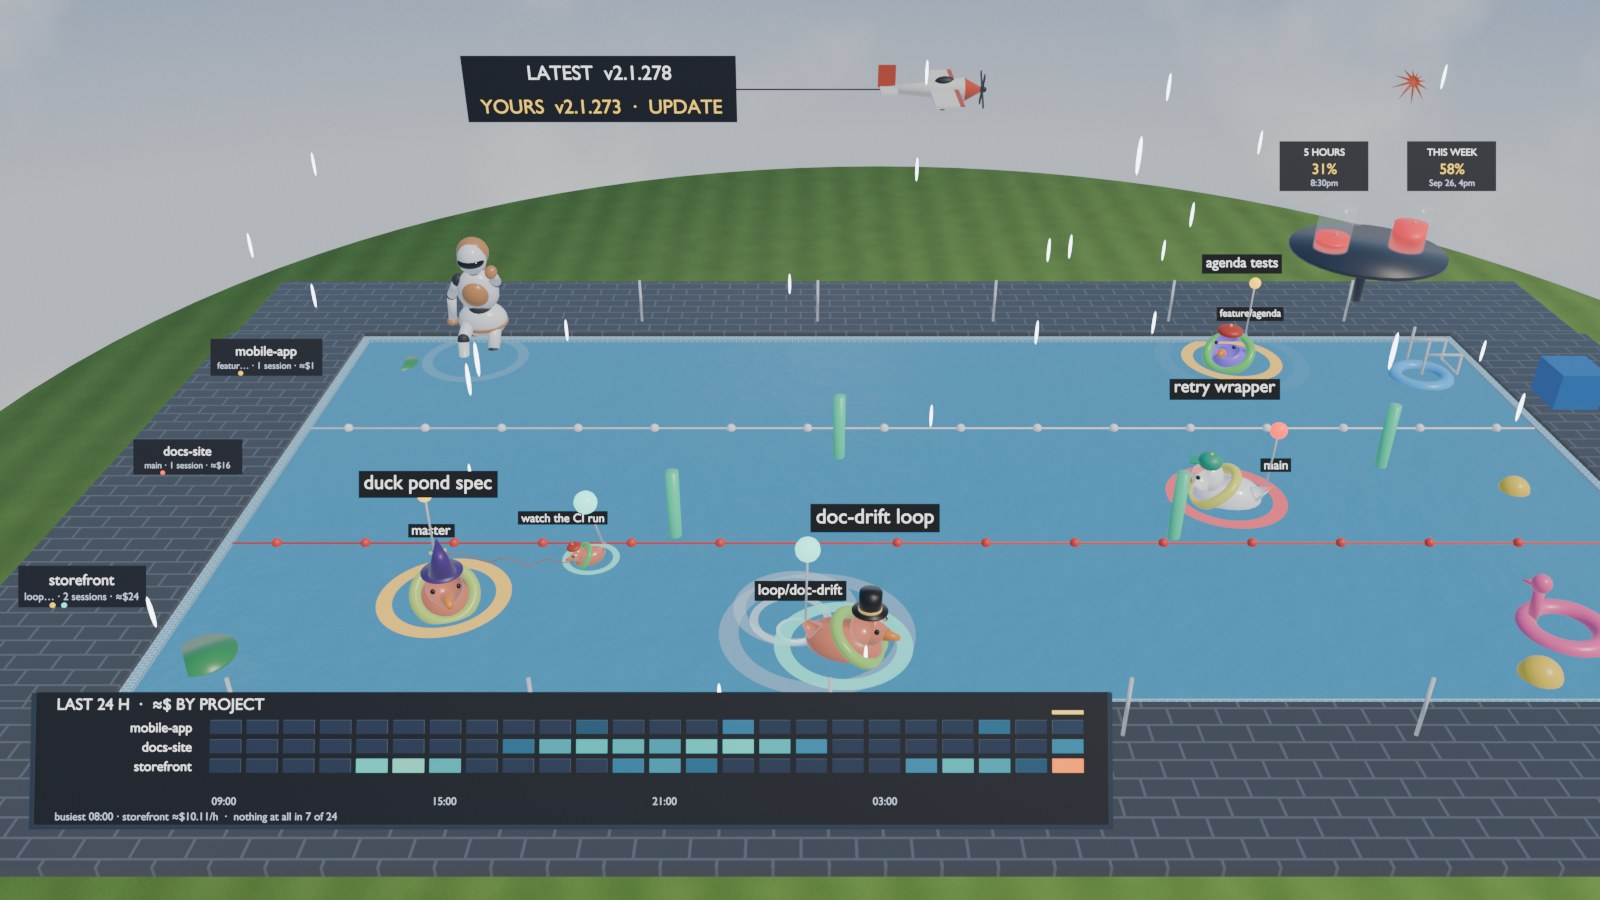
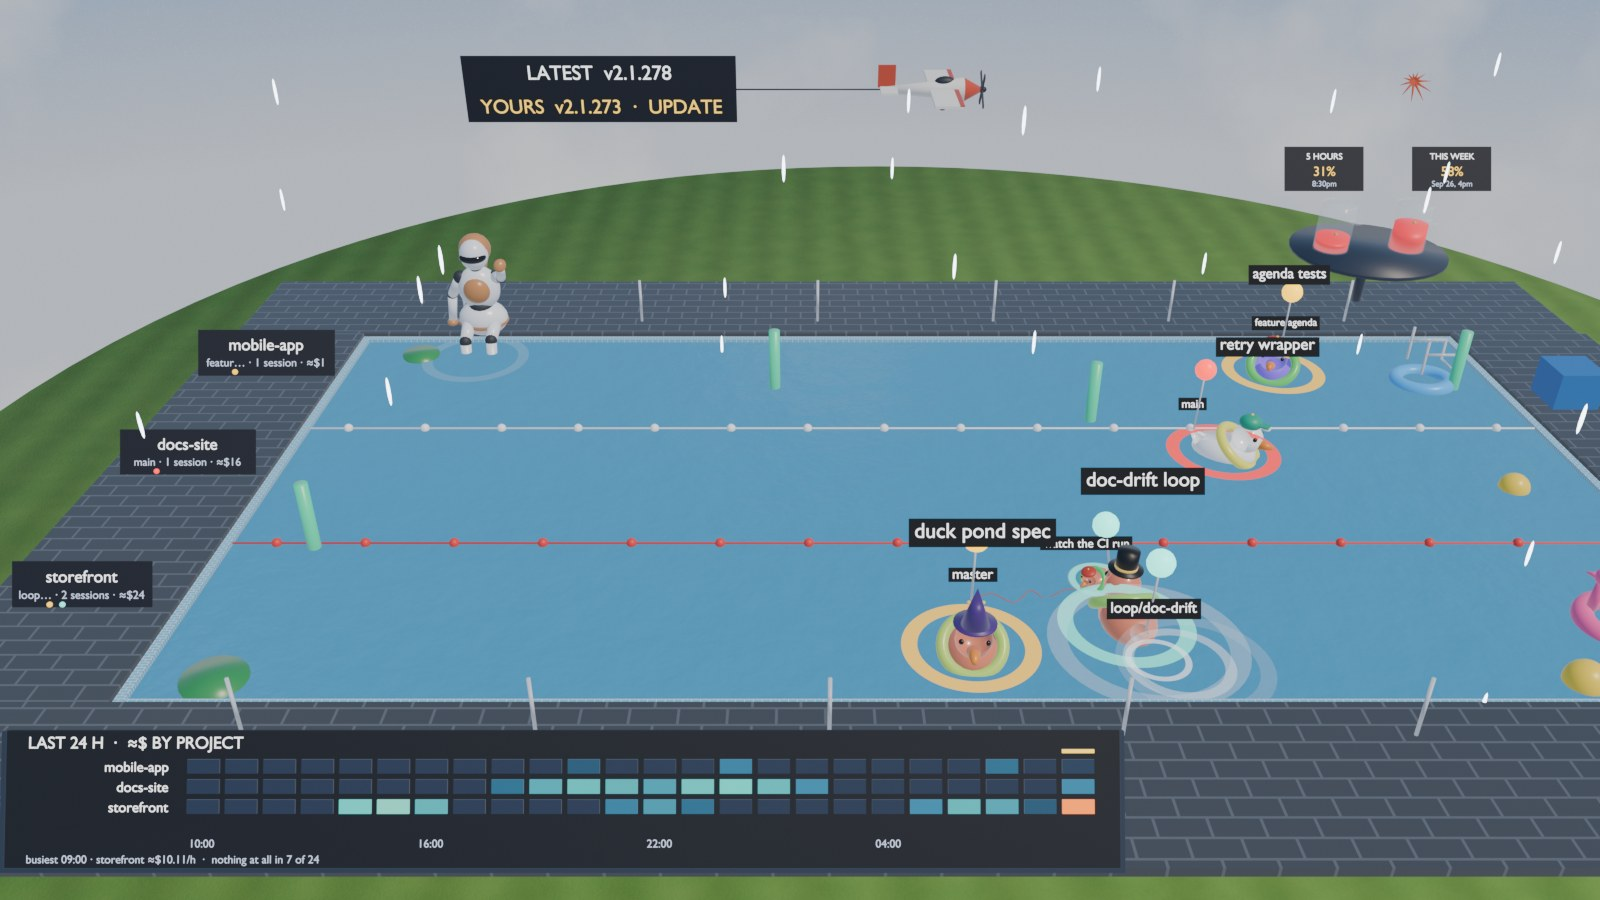
Drop the DIRECTOR box, and sit the mosaic on the key's line
DIRECTOR was the auto camera, and kiosk mode turns that on by default -- so it
was a permanent box in the corner naming an internal setting, not a warning
about anything. Nobody should have to ask what it meant. PAUSED and REDACTION
OFF stay: those two do mean the pond is not telling you the whole truth.

The mosaic moves to the very front of the paving, which puts its foot on the
same line as the key's and makes the two read as one band. Measured from the
render rather than reasoned about, because a wide panel's top edge does not
project where its centre does -- the arithmetic said 0.185 against the key's
0.184 and the pixels said it was still 28 above. Moving it forward instead of
shrinking it also bought back the header's breathing room and gave it real
clearance from the water's near edge: the sight line check goes from 1.06
against 0.95 to 1.06 against 1.35.

diff --git a/duck_pond/ui/hover.py b/duck_pond/ui/hover.py
@@ -220,10 +220,11 @@ class DUCKPOND_OT_hover(bpy.types.Operator):
         card = cards.card_for(RT.fleet, kind, key, now, RT.redact)
         # The pool-wide totals used to sit down here permanently. They are on the board at
         # the top of the screen, and a second copy in the corner only ever got read as
-        # belonging to the duck whose card was above it. What is left is the modes, which
-        # are warnings about the pond lying to you and have to be visible somewhere.
-        flags = [f for f, on in (("PAUSED", RT.paused), ("REDACTION OFF", not RT.redact),
-                                 ("DIRECTOR", RT.director.enabled)) if on]
+        # belonging to the duck whose card was above it. What is left is the two modes that
+        # mean the pond is not telling you the whole truth. The auto camera used to be listed
+        # here too, and it is on by default in kiosk mode, so it was a permanent box naming
+        # an internal setting rather than a warning about anything.
+        flags = [f for f, on in (("PAUSED", RT.paused), ("REDACTION OFF", not RT.redact)) if on]
         footer = "   ·   ".join(flags)
         if card or footer:
             self._draw_card(context, region, card, footer, key)

diff --git a/duck_pond/scene/mosaic.py b/duck_pond/scene/mosaic.py
@@ -28,8 +28,12 @@ from .deck import _set_body, _text
 # The south deck slab spans y -2.1..-0.1 with its top at z 0.10. Set left of the frame's
 # centre, not the pool's: this paving is a third of the distance away, so it magnifies about
 # 1.7x, and the on-screen key owns the bottom-right corner. The panel stops where the key
-# starts rather than running underneath it.
-AT = (4.5, -1.68, 0.11)
+# starts rather than running underneath it, and sits far enough forward on the paving to
+# share the key's band: measured, its top lands on 0.185 of the frame height and the
+# key's on 0.184. Its base sits at the very front of the paving, which is what puts its
+# foot on the same line as the key's: measured from the render, not reasoned about, because
+# a wide panel's top edge does not project where its centre does.
+AT = (4.5, -2.14, 0.11)
 TILT = math.radians(58)     # face normal back up the view axis; the camera looks down ~30
 # Measured, not guessed: one world unit here is 0.068 of the frame width, so 9.0 reaches from
 # the left margin to the key's left edge, and a height of 1.12 stops at the water's near edge.

diff --git a/CHANGELOG.md b/CHANGELOG.md
@@ -65,6 +65,12 @@ All notable changes to Duck Pond are recorded here. The format follows
   far on a fixed line, and ≈$ bars for the range with their peak.
 
 ### Changed
+- The bottom-left corner no longer shows `DIRECTOR`. The auto camera is on by default in
+  kiosk mode, so it was a permanent box in the corner naming an internal setting rather than
+  warning about anything. `PAUSED` and `REDACTION OFF` stay, because those two do mean the
+  pond is not telling you the whole truth.
+- The deck mosaic sits at the very front of the paving, so its foot lands on the same line as
+  the on-screen key's and the two read as one band across the bottom of the frame.
 - The banner plane's tow line is three times longer and its banner a quarter smaller. The
   board across the top of the screen covers the whole sky band in the middle of the frame,
   so a short rig vanished behind it whole; a long one keeps the banner clear while the
